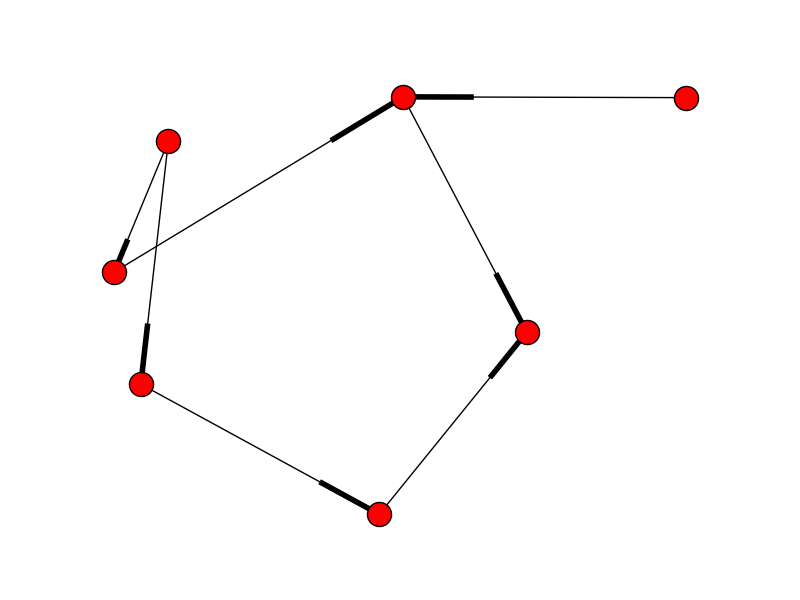
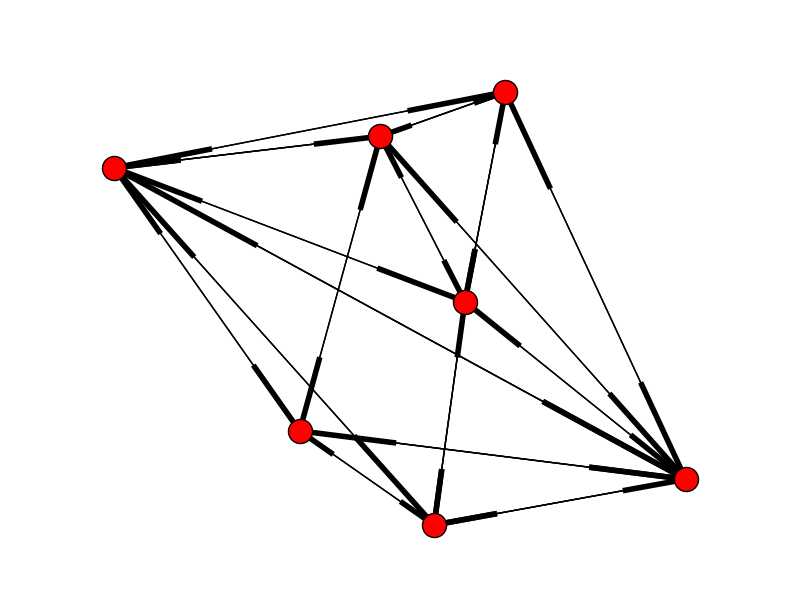
refined Classes

diff --git a/p1ver2.py b/p1ver2.py
@@ -2,6 +2,8 @@ import math
 import networkx as nx
 import matplotlib.pyplot as plt
 
+
+##Class Definitions##
 #The follwing is a class of a station, will be used as nodes
 class Station(object):
     """Makes a Station"""
@@ -10,10 +12,34 @@ class Station(object):
         self.reloading_buildings = reloading_buildings
         self.ship_in = ship_in
     def displayinfo(self):
-    	print('Station {0} has {1} reloading buildings and {2} incoming shipments'.format(self.num,self.reloading_buildings,self.ship_in))
+    	print('Station {0} has {1} reloading buildings and {2} incoming \
+    		shipments'.format(self.num,self.reloading_buildings,self.ship_in))
+    def fill(self,shipment_array):
+    	"""takes a list of shipments, adds them to ship_in"""
+    	for itr, item in enumerate(shipment_array):
+    		for i in range(0,len(item.paths)):
+    			if self.num in item.paths[i]:
+    				self.ship_in += item.path_vols[i]
+    	
+
+#railroad class, used as edge
+class Track(object):
+	"""Conains info about a track"""
+	def __init__(self, is_built, load):
+		self.is_built = is_built
+		self.load = load
+
+class Shipment(object):
+	"""Contains a shipment and its path"""
+	def __init__(self, origin, destination, total_volume, paths, path_vols):
+		self.origin = origin
+		self.destination = destination
+		self.total_volume = total_volume
+		self.paths = paths
+		self.path_vols = path_vols
 
 
-
+##Data
 stations_data = [[50,	0,		1,	0],
 				 [250,	0,		1,	0],
 				 [100,	50,		2,	0],
@@ -21,11 +47,6 @@ stations_data = [[50,	0,		1,	0],
 				 [200,	100,	2,	0],
 				 [100,	200,	2,	0],
 				 [200,	200,	3,	0]]
-
-xcorr 	= [50,		250,	100,	0,		200,	100,	200]
-ycorr 	= [0,		0,		50,		100,	100,	200,	200]
-rel_sta = [1,		1,		2,		3,		2,		2,		3]
-shipins = [0,		0,		0,		0,		0,		0,		0]
 
 track_data = [	[1,3,1],
 				[1,4,1],
@@ -35,29 +56,42 @@ track_data = [	[1,3,1],
 				[5,7,1],
 				[6,7,1]]
 
+#paths
+path = [[4,6,7],[4,1,3,5,7]]
+vol = [8,3]
+A = Shipment(4,7,11,path,vol)
 
-#some loops to determine which stations can be 
-#connected under 220 miles
-edges = []
-for i in range(0,len(xcorr)):
-	for j in range(0,len(ycorr)):
- 		dist = math.hypot(xcorr[i] - xcorr[j], ycorr[i] - ycorr[j])
- 		if (dist<=220)&(dist != 0):
- 			#add a potential track 
- 			edges.append((i+1,j+1))
+path = [[3,5,2]]
+vol = [3]
+B = Shipment(3,2,3,path,vol)
 
 
-###ititialize the network
-Net = nx.DiGraph()
-nodes = {}
+
+
+###ititialize the network####
+Net = nx.MultiDiGraph()
 #add all the stations
 for i in range(0,len(stations_data)):
-	nodes[i + 1] = Station(i + 1, stations_data[i][2],stations_data[i][3])
-	Net.add_node(i + 1)
+	Net.add_node(i + 1, obj = Station(i + 1, stations_data[i][2],stations_data[i][3]))
 
 #add the existing tracks 
-#for i in range(0, len(track_data)):
-Net.add_weighted_edges_from(track_data)
+for i in range(0,len(track_data)):
+	for j in range(0,track_data[i][2]):
+		Net.add_edge(track_data[i][0],track_data[i][1], Track(1,0))
+###########################
+
+###Add potential tracks###########
+
+for i,x in enumerate(stations_data):
+	for j,y in enumerate(stations_data):
+		dist = math.hypot(x[0] - y[0], x[1] - y[1])
+		if (dist<=220)&(dist != 0):
+			Net.add_edge(i+1,j+1, Track(0,0))
+
+test = nx.get_node_attributes(Net,'obj')
+print(test[1].ship_in)
+test[1].fill([A,B])
+print(test[1].ship_in)
 
 nx.draw(Net)
 plt.savefig("path.png")
